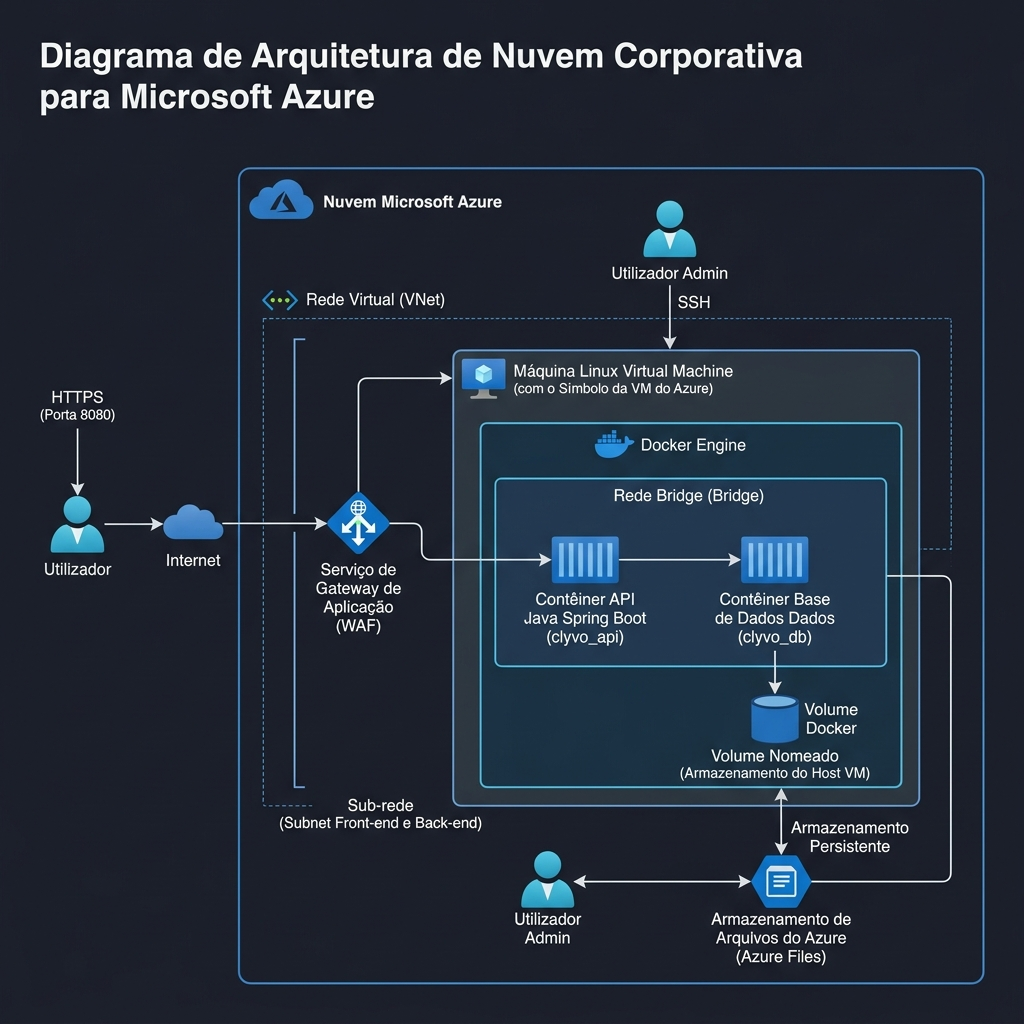
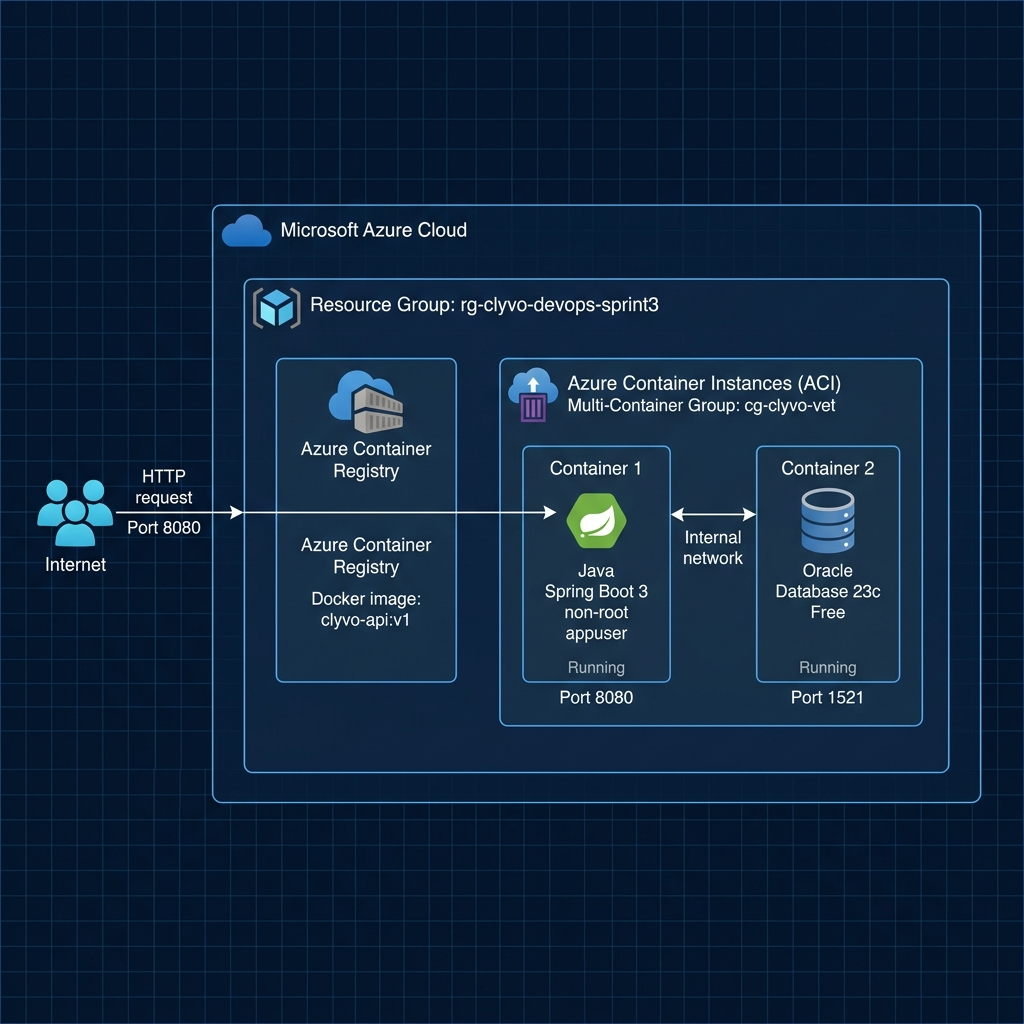
fix(devops): blindagem dos 100 pontos da sprint 3 (ACI multi-container, seguranca de credenciais e diagrama oficial de arquitetura)

diff --git a/README.md b/README.md
@@ -39,6 +39,8 @@ A modernização da infraestrutura do Clyvo Vet com **conteinerização total (D
 
 ## 🗺 3. Desenho da Arquitetura em Nuvem (Opção 1: ACR + ACI)
 
+![Diagrama de Arquitetura em Nuvem - Azure ACR + ACI](clyvo_devops_architecture.png)
+
 ```mermaid
 graph TD
     subgraph Internet["Clientes & Dispositivos"]
